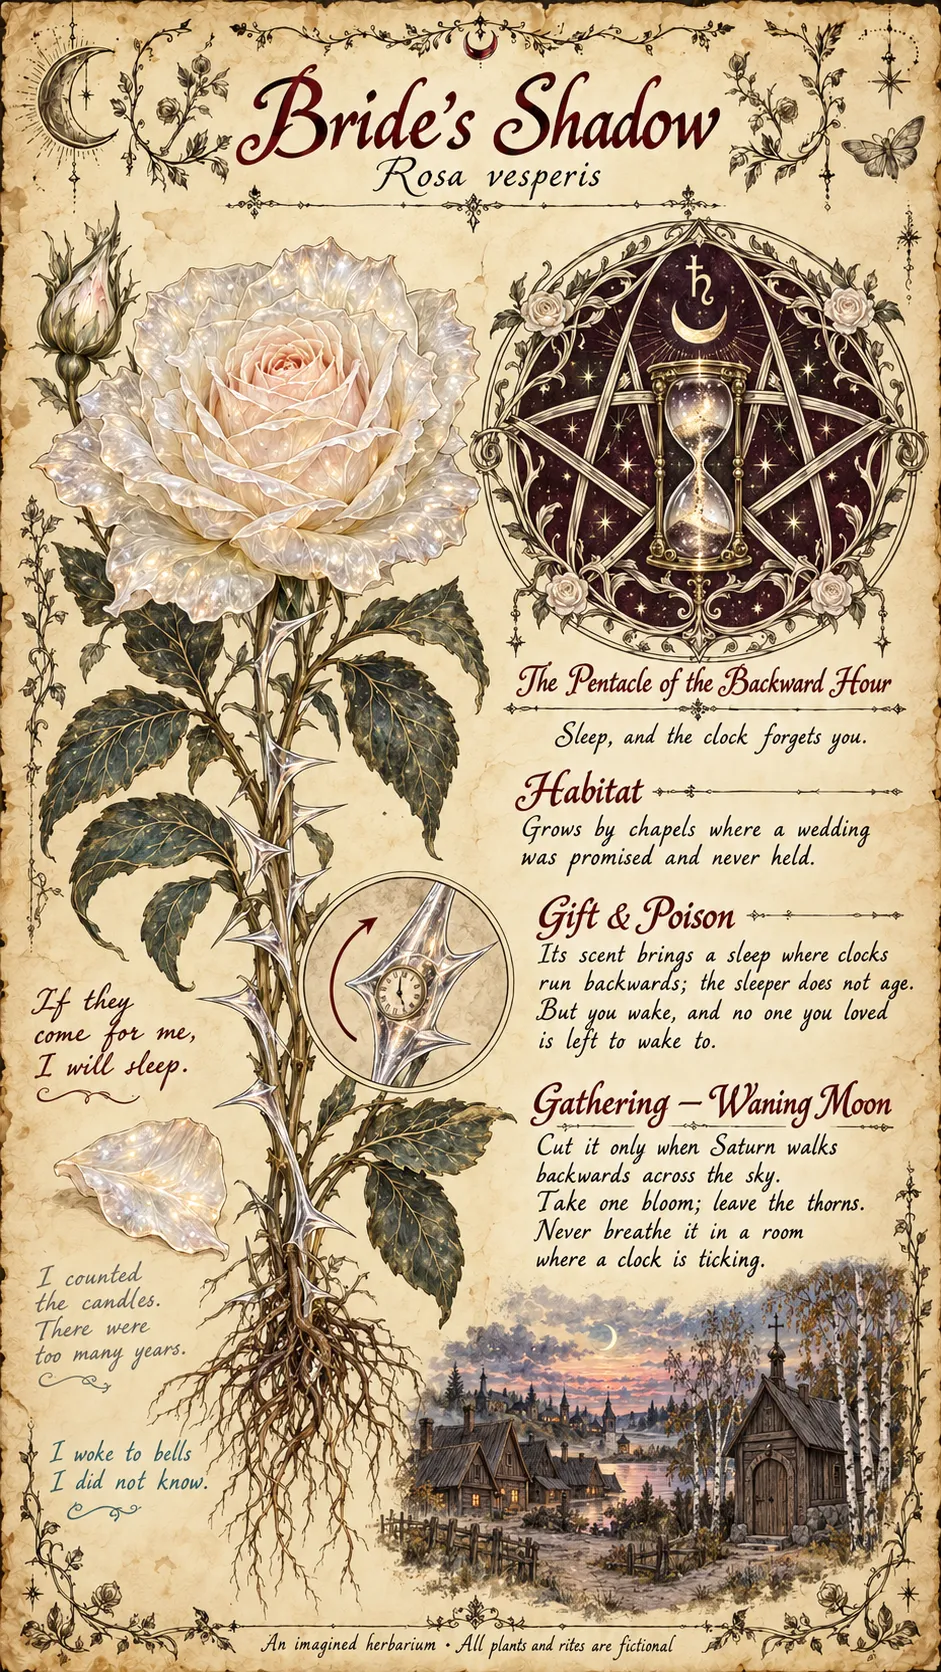
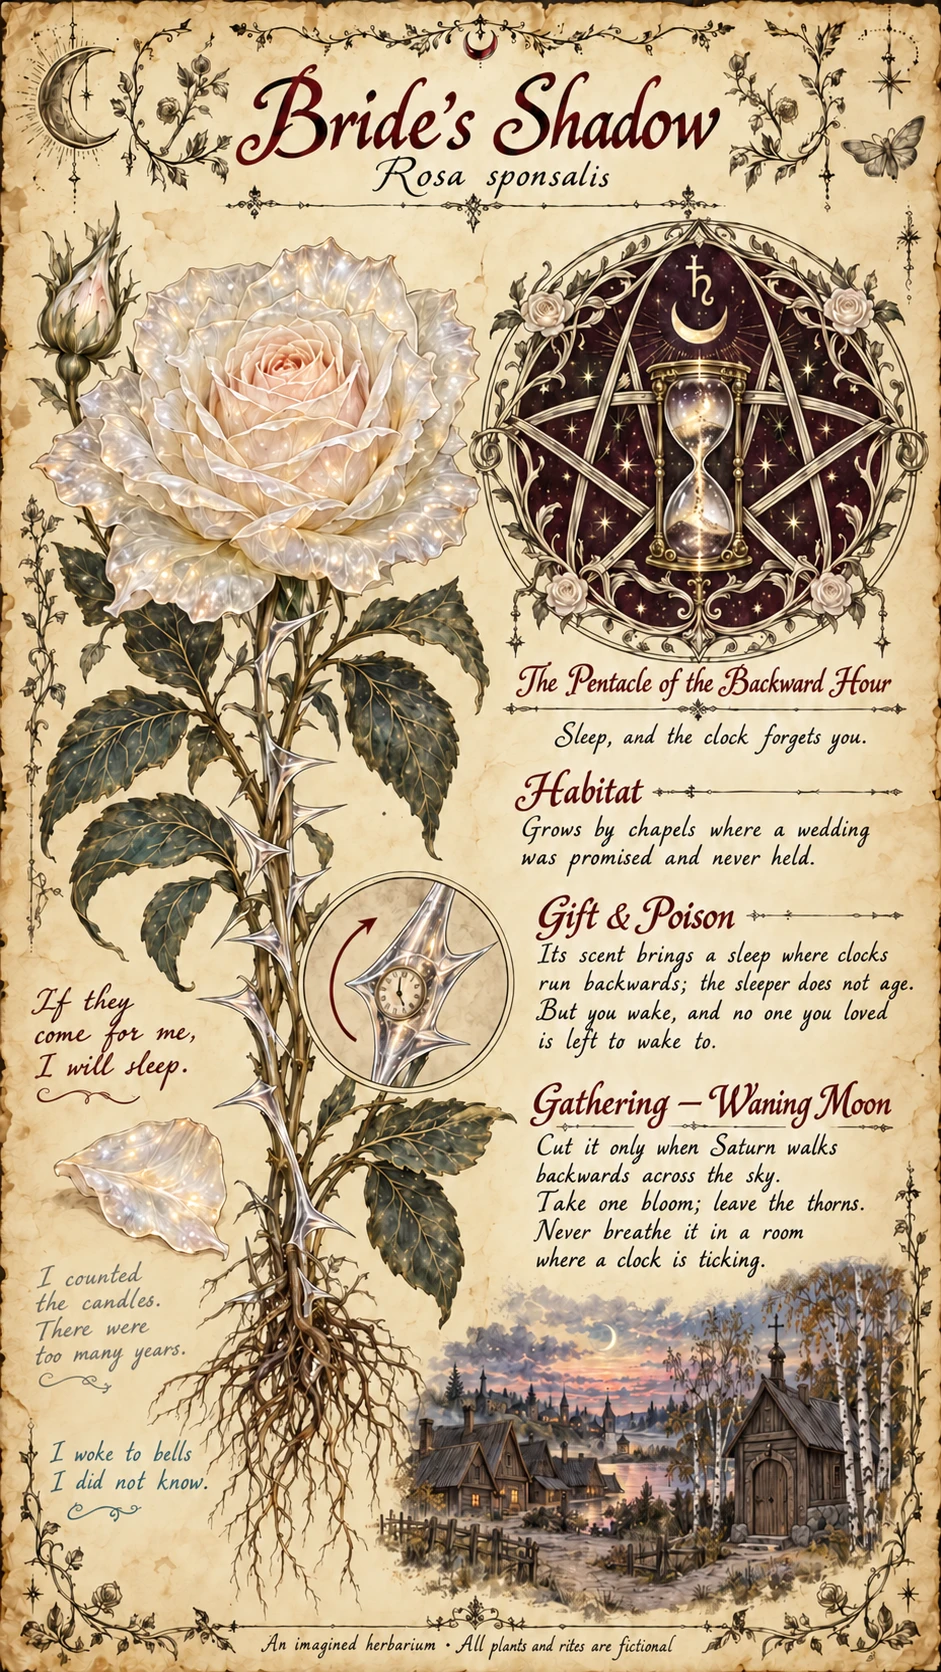
Herbarium: Bride's Shadow sheet with Rosa sponsalis
Claude-Session: https://claude.ai/code/session_01VZdHTpEz3hgKAiX3J3GC4X

diff --git a/content/herbarium/INDEX.md b/content/herbarium/INDEX.md
@@ -4,7 +4,7 @@
 | 01 | Hollowbell | Oblivaria cava | Widow's Lantern, the Nameless Bell, Užmarštė | holds one name; give it another's and it takes yours | Venus | Blue Moon | The Pentacle of the Lost Name — "Leave the circle open. A forgotten name must have a way home." | name | final | 01-hollowbell.md |
 | 02 | Dusklantern | Lucerna vesperis | — | its lanterns dim at self-deception and kindle at the first honest words; deny what it reveals, and a pod keeps your voice | Mercury | Dark Moon | The Pentacle of the Honest Flame — "One flame. One truth. An open door." | voice | draft | 02-dusklantern.md |
 | — | Crimson Whisperfern | — | — | in its shadow, paths forget where they end (black fern with crimson dew) | — | — | — | — | reserved | — |
-| — | Bride's Shadow | Rosa sponsalis (sheet image still shows old *Rosa vesperis*; Nayara fixes it) | — | its scent brings a sleep where clocks run backwards; the sleeper does not age, but wakes to no one she loved (white rose with transparent thorns). Key to the plot: tied to the secret of why the heroine does not age. Number and any use only by Ruta's decision | Saturn | Waning | The Pentacle of the Backward Hour — "Sleep, and the clock forgets you." | everyone she would wake to | key | NN-brides-shadow.md |
+| — | Bride's Shadow | Rosa sponsalis | — | its scent brings a sleep where clocks run backwards; the sleeper does not age, but wakes to no one she loved (white rose with transparent thorns). Key to the plot: tied to the secret of why the heroine does not age. Number and any use only by Ruta's decision | Saturn | Waning | The Pentacle of the Backward Hour — "Sleep, and the clock forgets you." | everyone she would wake to | key | NN-brides-shadow.md |
 | — | Star Soulbane | — | — | its sap makes a shadow leave its owner; grows where night falls three times (blue vine, berries glowing like stars) | — | — | — | shadow | reserved | — |
 
 `key`: a plot-key plant. It has a book sheet but no number; Ruta assigns the number and decides when it appears. Agents never use it on their own.

diff --git a/content/herbarium/CANON.md b/content/herbarium/CANON.md
@@ -32,7 +32,7 @@ Fixed reference images, attached to every generation of her:
 - **Hollowbell:** `content/herbarium/refs/hollowbell-ref.png` — the main image of the flower for all prompts.
 - **Series cover:** `content/herbarium/refs/herbarium-cover.png` — the sheet with four plants, for carousels and previews.
 - **Book sheets:** `content/herbarium/refs/NN-name-page.png` (`01-hollowbell-page.png`, `02-dusklantern-page.png`) — the style model for every new book sheet.
-- **Bride's Shadow sheet:** `content/herbarium/refs/bride-shadow-page.png` (text in `NN-brides-shadow.md`). The image still shows the old Latin name *Rosa vesperis*; the canon name is *Rosa sponsalis*, Nayara fixes it in the next version.
+- **Bride's Shadow sheet:** `content/herbarium/refs/bride-shadow-page.png` (text in `NN-brides-shadow.md`).
 
 ## Look
 - **Palette:** gold–teal–indigo. Teal is the colour of the plants' magic.

diff --git a/content/herbarium/NN-brides-shadow.md b/content/herbarium/NN-brides-shadow.md
@@ -1,7 +1,7 @@
 # Herbarium of the Forgotten Witch — Bride's Shadow (key plant)
 
 **Status:** key. No number yet: Ruta assigns it and decides when the plant appears. No video page yet; agents never use this plant on their own.
-**Sheet image:** `refs/bride-shadow-page.png`. The image still shows the old Latin name *Rosa vesperis*; the canon name is *Rosa sponsalis* (wedding, betrothal). Nayara fixes it in the next version of the sheet.
+**Sheet image:** `refs/bride-shadow-page.png`. Latin name *Rosa sponsalis* (wedding, betrothal), corrected on the sheet.
 
 ## Book sheet
 - Number & name: [number by Ruta]. Bride's Shadow — Rosa sponsalis
